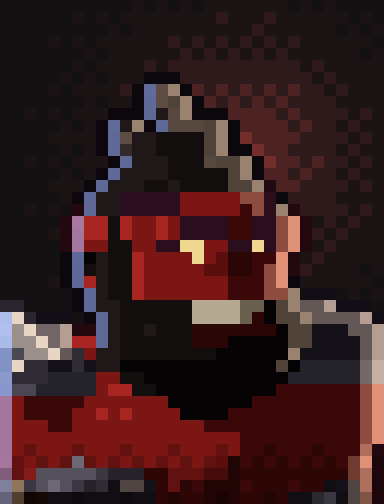
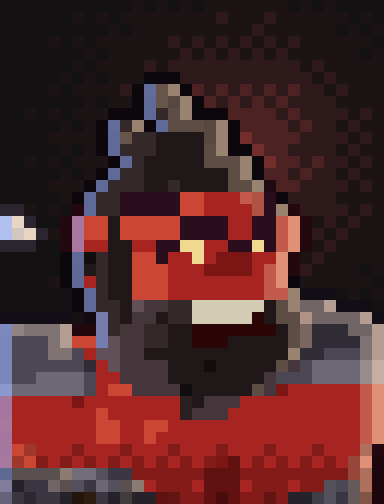
Axe review fixes: great axe head ~2x (double bit, longer haft, grid 96x80x80), stunned axe off the ground; portrait exposure lifted, beard outline lit so eyes + mouth read.

diff --git a/shared/vox/heroes/axe.js b/shared/vox/heroes/axe.js
@@ -3,14 +3,14 @@
 // pauldrons on both shoulders, dark bracers, a brown belt with a strap across the chest; dark brown trousers, grey greaves, dark boots. Both
 // fists hold the double-bladed great axe across the front, the head out to his right (-x), the long haft running down past his left hip.
 // Signature reads: red bulk with a black topknot + beard; the double-bit axe held across the body; dark iron shoulders on red arms.
-// Grid 64 x 64 x 56, ~45 voxels tall to the topknot (Pudge 45), faces -y.
+// Grid 96 x 80 x 80 (room for the great axe), ~45 voxels tall to the topknot (Pudge 45), faces -y.
 import { Vox } from '../vox.js';
 import { useMat } from '../mats.js';
 import { solve, sub3, norm3, apM } from '../rig.js';
 import { limb, band, hand, feet, pauldron, ell, cap, vol, greatAxe } from '../parts.js';
 
-export const META = { rig: 'biped', grid: [64, 64, 56], cx: 32, cy: 32 };
-const cx = 32, cy = 32;
+export const META = { rig: 'biped', grid: [96, 80, 80], cx: 48, cy: 40 };
+const cx = 48, cy = 40;
 /** Biped proportions: short legs, a broad chest, shoulders wide and high, the head set forward on a thick neck. */
 export const PROP = {
   cx, cy, hipZ: 11, hipX: 3.6, footX: 6.2, ankleY: -0.3, ankleZ: 3.4, thigh: 4.6, shin: 4.2,
@@ -23,13 +23,14 @@ const HOLD = { R: [2.6, -9.4, -4.6], L: [-4.4, -9, -10.4] };   // reach targets 
 export const rigOf = p => solve('biped', PROP, p).J;
 
 export function build(p = {}) {
-  const v = new Vox(64, 64, 56), rig = solve('biped', PROP, p), J = rig.J, T = rig.T, Rt = T.torso && T.torso.R;
+  const v = new Vox(96, 80, 80), rig = solve('biped', PROP, p), J = rig.J, T = rig.T, Rt = T.torso && T.torso.R;
   const SKIN = ['#3a0808', '#7c1614', '#a82420', '#cc4636'];
   const M = {
     skin: useMat(v, 'skin', { ramp: SKIN }),
     skinD: useMat(v, 'skinD', { ramp: ['#2a0606', '#5a0e0e', '#7c1614', '#9c2a22'] }),
     face: useMat(v, 'face', { ramp: SKIN, noShadow: true }),
     hair: useMat(v, 'hair', { ramp: ['#050304', '#120e0e', '#201818', '#342828'] }),
+    hairL: useMat(v, 'hairL', { ramp: ['#120c0c', '#2a2020', '#44363a', '#625058'], noShadow: true }),
     iron: useMat(v, 'iron', { ramp: ['#141218', '#302c36', '#4c4754', '#6c6676'] }),
     ironL: useMat(v, 'ironL', { ramp: ['#24222a', '#4a4652', '#6c6876', '#928c9a'] }),
     leather: useMat(v, 'leather', { ramp: ['#140c08', '#2e1e14', '#46301e', '#644630'] }),
@@ -99,11 +100,12 @@ export function build(p = {}) {
     cap(v, Th, [hx + dx * 0.7, hy + 1.2, hz + 4.4], [hx + dx * 1.3, hy + 1.2 + back, hz + 4.6 + up], 1.7, M.hair, 0.5);
   cap(v, Th, [hx, hy + 4.4, hz + 2], [hx, hy + 6.4, hz - 3], 2.8, M.hair, 1.6);                                 // mane down the nape
   for (const s of [-1, 1]) cap(v, Th, [hx + s * 4.6, hy + 0.4, hz + 0.4], [hx + s * 5.6, hy + 0.8, hz + 1.6], 0.9, M.face);   // ears
-  ell(v, Th, [hx, hy - 1.4, hz - 3.4], [5, 4, 3.8], M.hair, (px, py, pz) => pz < hz - 1.6 + Math.abs(px - hx) * 0.1);   // beard
+  ell(v, Th, [hx, hy - 1.4, hz - 3.4], [5, 4, 3.8], (px, py, pz) => (((px - hx) / 5) ** 2 + ((pz - hz + 3.4) / 3.8) ** 2 > 0.62 ? M.hairL : M.hair),
+    (px, py, pz) => pz < hz - 1.6 + Math.abs(px - hx) * 0.1);                                                    // beard, its outline lit so the mouth reads
   for (const s of [-1, 1]) cap(v, Th, [hx + s * 4.4, hy - 0.4, hz + 0.4], [hx + s * 4.2, hy - 1, hz - 2.8], 1.1, M.hair);  // sideburns
 
   // ---- face, painted on the front-most head voxels only: heavy brow, small pale eyes, nose shadow, a bared grimace in the beard
-  const HEAD = new Set([M.face, M.hair]);
+  const HEAD = new Set([M.face, M.hair, M.hairL]);
   const paint = (x, z, m) => { const y = v.front(x, z); if (y >= 0 && HEAD.has(v.get(x, y, z))) v.set(x, y, z, m); };
   const ox = Math.round(J.head[0] - hx), ez = Math.round(HZ + 1 + J.head[2] - hz), X = d => cx + ox + d;
   for (const [d, dz] of [[-4, 2], [-3, 2], [-2, 1], [-1, 1], [0, 0], [1, 1], [2, 1], [3, 2]]) paint(X(d), ez + dz, M.lash);
@@ -119,7 +121,7 @@ export function build(p = {}) {
   const butt = [hL[0] - d[0] * 6 + fwd[0] * lift, hL[1] - d[1] * 6 + fwd[1] * lift, hL[2] - d[2] * 6 + fwd[2] * lift];
   const span = Math.hypot(...sub3(hR, hL)) + 6;
   greatAxe(v, butt, d, Math.abs(d[1]) > 0.8 ? apM(Rt, [1, 0, 0]) : fwd,
-    { len: span + 16, head: span + 13, r: 0.9, bits: 2, reach: 7.4, l0: 2.4, l1: 6.4, th: 0.8, edge: 1.2, spike: 1.6, bands: [0.06, (span - 6) / (span + 16), 0.6] },
+    { len: span + 24, head: span + 19, r: 1, bits: 2, reach: 11.5, l0: 3.4, l1: 10, th: 0.9, edge: 1.6, spike: 2.2, bands: [0.06, (span - 6) / (span + 24), 0.55] },
     { haft: M.wood, band: M.iron, blade: M.blade, edge: M.edge });
   v.ellipsoid(butt[0], butt[1], butt[2], 1.1, 1.1, 1.1, M.iron);                                              // pommel
   return v;
@@ -132,7 +134,7 @@ const step = st => ({
   reachR: sh(HOLD.R, [0, st * 0.8, 0.8]), reachL: sh(HOLD.L, [0, st * 0.8, 0.8]),
 });
 const ROAR = { bob: 0.2, spine: [-10, 0, 0], head: [-16, 0, 0], reachR: [0.4, -1.2, 8.6], reachL: [-2, -4.6, -6.4], footR: [0, 0.6, 0], footL: [0, -0.6, 0] };
-const SLUMP = { bob: -0.8, spine: [12, 4, 5], head: [14, 8, 6], reachR: [3, -5, -11], reachL: [-3, -5, -11.4], eyes: 'shut' };
+const SLUMP = { bob: -0.8, spine: [12, 4, 5], head: [14, 8, 6], reachR: [3, -7, -5], reachL: [-3, -7, -9], eyes: 'shut' };
 /** Anims: idle = slow heavy breathing, axe across the belly; walk = a heavy stride, axe carried; attack = the axe wound up over the right
  * shoulder, then a diagonal chop across the front; cast = Berserker's Call: leans back, axe thrust up, roaring; stunned = slumped, eyes shut. */
 export const ANIMS = {
@@ -151,4 +153,5 @@ export const ANIMS = {
 };
 
 /** HUD portrait framing (tools/vox/portrait.mjs): idle, the bearded red head in the upper third, the pauldrons either side. */
-export const PORTRAIT = { pose: ANIMS.idle[0], center: [cx, HY, 34], scale: 1.6, fov: 24, sig: '#a82420', face: [4, 11, 24, 24] };
+export const PORTRAIT = { pose: ANIMS.idle[0], center: [cx, HY, 34], scale: 1.6, fov: 24, sig: '#a82420', face: [4, 11, 24, 24],
+  ambient: 0.34, fill: [0.85, -0.5, 0.45, 0.45], levels: [0.3, 0.55, 0.85] };   // lifted exposure: the beard + dark skin must not swallow the face

diff --git a/client/src/art/portraits/axe.js b/client/src/art/portraits/axe.js
@@ -1,50 +1,50 @@
 // GENERATED by tools/vox/portrait.mjs (axe) -- do not edit by hand. Voxel HUD portrait 32x42 (= the 32x42 the HUD shows, 1 art px = 1 u), opaque.
 // Loaded by client/src/art/portraits.js, which swaps it into the sheet's 'portrait' frame unless ?vox=0.
 export default {
-  pal: { '0':'#24222a', '1':'#a82420', '2':'#611110', '3':'#50433a', '4':'#141218', '5':'#9a8270', '6':'#8d4c3f', '7':'#2a0606', '8':'#5e6997', '9':'#24080f', '!':'#1c1414', '#':'#131111', '$':'#7c1614', '%':'#2e1a1a', '&':'#3a0808', '(':'#120e0e', ')':'#050304', '*':'#0c060d', '+':'#201818', ',':'#4c2322', '-':'#2d0606', '/':'#2a0e1e', ':':'#df9076', ';':'#100e13', '<':'#645856', '=':'#130d16', '>':'#b4aa94', '?':'#302c36', '@':'#b49e93', 'A':'#210505', 'B':'#54515c', 'C':'#56483f', 'D':'#e9d5c3', 'E':'#9a8f8a', 'F':'#a4769e', 'G':'#f0d890', 'H':'#5a0e0e', 'I':'#1c060c', 'J':'#25222a', 'K':'#4e4543', 'L':'#5d4d44', 'M':'#5f6a98', 'N':'#732e2c', 'O':'#a6779e', 'P':'#2b252f', 'Q':'#6a6050', 'R':'#726565', 'S':'#ae705c', 'T':'#5d6897', 'U':'#8392c4', 'V':'#756967', 'W':'#c5afa3', 'X':'#4a4652', 'Y':'#6c6876', 'Z':'#6e3b31', '[':'#3a3740', ']':'#460b0b', '^':'#3b3742', '_':'#0c0a0e', 'a':'#220505', 'b':'#616c9a', 'c':'#616b9a', 'd':'#342828', 'e':'#220a13', 'f':'#a8789f', 'g':'#aebeec', 'h':'#b0bfee', 'i':'#aabae9', 'j':'#4a4850', 'k':'#8b99cb', 'l':'#8896cc', 'm':'#815d7b', 'n':'#831c19', 'o':'#807f9d', 'p':'#91755a', 'q':'#64637a', 'r':'#533f30', 's':'#0f0703', 't':'#140905', 'u':'#180303', 'v':'#2b2930', 'w':'#825445' },
+  pal: { '0':'#4c4754', '1':'#5d4d44', '2':'#6c6876', '3':'#9a8270', '4':'#5f6a98', '5':'#c45a4b', '6':'#24080f', '7':'#130d16', '8':'#df9076', '9':'#d4ccb4', '!':'#1c1414', '#':'#a82420', '$':'#131111', '%':'#2e1a1a', '&':'#201818', '(':'#831c19', ')':'#cc4636', '*':'#0c060d', '+':'#342828', ',':'#4c2322', '-':'#44363a', '/':'#2a0e1e', ':':'#2a0606', ';':'#7c1614', '<':'#302c36', '=':'#611110', '>':'#3b3742', '?':'#726565', '@':'#807374', 'A':'#2b252f', 'B':'#b49e93', 'C':'#25222a', 'D':'#4a4652', 'E':'#594f4f', 'F':'#a8789f', 'G':'#625058', 'H':'#f0d890', 'I':'#a6779e', 'J':'#1c060c', 'K':'#67554c', 'L':'#56483f', 'M':'#732e2c', 'N':'#120e0e', 'O':'#757daf', 'P':'#ae705c', 'Q':'#54515c', 'R':'#616c9a', 'S':'#ae5345', 'T':'#b1c0ef', 'U':'#e9d5c3', 'V':'#5e6997', 'W':'#7a6560', 'X':'#7886bc', 'Y':'#7987bd', 'Z':'#998c8d', '[':'#c5afa3', ']':'#2a2020', '^':'#9f372a', '_':'#99463a', 'a':'#8c7b73', 'b':'#726d78', 'c':'#54505c', 'd':'#645a5a', 'e':'#621513', 'f':'#220a13', 'g':'#d1c6c0', 'h':'#120a10', 'i':'#af9486', 'j':'#7b89be', 'k':'#908285', 'l':'#8b99cf', 'm':'#5f6a93', 'n':'#7f7d9b', 'o':'#6c6676', 'p':'#636279', 'q':'#2c2931', 'r':'#24150a', 's':'#301c0e', 't':'#423b3b', 'u':'#480d0c', 'v':'#3f3d45', 'w':'#825445' },
   face: [4, 11, 24, 24],
   rows: [
-    '###########!#!#!#!!!!!!!#!#!####',
-    '######!#!#!!!!!!!!%!!!%!!!!!!#!#',
-    '#########!#!!!!!!!!!!%!!!!!!#!#!',
-    '####!#!#!!!!!!%!%!%!%!%!%!!!!!!#',
-    '#######!#!!!!!!%!%!%!%!%!!!!!!#!',
-    '######!#!!!!%!%%%%%%%%%%%!%!!!!!',
-    '#####!#!#!!!***%%%%%%%%%%%!%!!!!',
-    '####!#!!!!%*bL5*,%,%,%,%,%%!%!!!',
-    '#######!#!!*ML35*,%,%,%,%%%%!!!!',
-    '##!#!#!!!***8+C5***,,,,%,%%%%!%!',
-    '#####!#!*c+5*8CCC35*,,,,%,%%!%!!',
-    '####!!!!*8L++((((35*N,,,,%%%%!%!',
-    '#####!#!*8d++((((35**N,,%%%%!%!!',
-    '##!#!#!!!*8+++(((C335*N,,%,%%!%!',
-    '#####!#!*8++++(((((35*,,%,%%!%!!',
-    '####!!!*8+++((+((((335e,,%%%%!%!',
-    '#####!*M++/////$$$$$66/*%%%%!!!!',
-    '##!#!#9M++/////$$$$$&6/59%%%%!%!',
-    '#####9f11(1$$1$////&&//6:9!%!%!!',
-    '####!9O11(1$$1$////&&//6:9%!%!!!',
-    '#####9O$$(($$//GG$$//G/6:9!%!!!!',
-    '#####*8)+((1$$$$G$H77&&:9!%!!!!!',
-    '#####*T(+((1$$$$$HH77&6:9%!!!!#!',
-    '####!*T1+((1$$$$$$$&&&6:*!!!!!!#',
-    '######*8+((1$$$$$$$&&&665===#!#!',
-    'PP####*8++((((((>>>>QQ)35<<@===#',
-    'gDP===#*8+((((((>>>>Q7)335<<<<@=',
-    'hEDRR@998+((+(((7777777)33444<<@',
-    'iEEDR@118+((((((777)))))334444<@',
-    'UjEED<?$++(((((((())))))544444<@',
-    'UD??44?4++)))))))))))))3)00000VW',
-    'k???0000$$(())))))))))))000000VW',
-    'lXX00000$11(())))))))))&&&&&&&6:',
-    'F$&&&&&$$$$$$$)))))))&&&&&&&&&6:',
-    'F$&&&&$$1$1$$$$))))&&&&&&&&&&&6:',
-    'F$$$&&$$$$$$$$$$$&&&&&&&&&&&&&6:',
-    'F$$$$$$$$$$$$$$$$$$$&&&&&&&&&&6:',
-    'F$2$$$2$$$2$$$2$$$2$&&-&&&-&&&S9',
-    'O2$2$2Y2$2$2$2$2$2HA&-&-&-&-&Z:I',
-    'm2nBBBBB[JJJ--222]]A---------ZSI',
-    'op^BYB^J?;KK4-2-&AAA&---&--;4KSI',
-    'qrst;;_;;;_;;-a--AuA--a-;;v[;KwI'
+    '$$$$$$$$$$$!$!$!$!!!!!!!$!$!$$$$',
+    '$$$$$$!$!$!!!!!!!!%!!!%!!!!!!$!$',
+    '$$$$$$$$$!$!!!!!!!!!!%!!!!!!$!$!',
+    '$$$$!$!$!!!!!!%!%!%!%!%!%!!!!!!$',
+    '$$$$$$$!$!!!!!!%!%!%!%!%!!!!!!$!',
+    '$$$$$$!$!!!!%!%%%%%%%%%%%!%!!!!!',
+    '$$$$$!$!$!!!***%%%%%%%%%%%!%!!!!',
+    '$$$$!$!!!!%*RK3*,%,%,%,%,%%!%!!!',
+    '$$$$$$$!$!!*4KL3*,%,%,%,%%%%!!!!',
+    '$$!$!$!!!***4+13***,,,,%,%%%%!%!',
+    '$$$$$!$!*R+3*4111L3*,,,,%,%%!%!!',
+    '$$$$!!!!*4K++&&&&L3*M,,,,%%%%!%!',
+    '$$$$$!$!*4+++&&&&13**M,,%%%%!%!!',
+    '$$!$!$!!!*4+&&&&&1113*M,,%,%%!%!',
+    '$$$$$!$!*4++&&&&&&&13*,,%,%%!%!!',
+    '$$$$!!!*4+++&&+&&&&113f,,%%%%!%!',
+    '$$$$$!*4++/////))###5S/*%%%%!!!!',
+    'AA!$!$64++/////))####S/36%%%%!%!',
+    'TUA$$6F))&)))))////##//586!%!%!!',
+    'TgUA!6F))&)))))////##//586%!%!!!',
+    'AAA$$6F##&&##//HH##//H/586!%!!!!',
+    '$$$$$*4N+&&))/##H#;;;##86!%!!!!!',
+    '$$$$$*V&+&&)))###;;;;#586%!!!!$!',
+    '$$$$!*V#+&&)))########58*!!!!!!$',
+    '$$$$$$*4+&&)))########553777$!$!',
+    '$$$$$$*4++&G--++999999&13??B777$',
+    '777777$hO+&--&++99999:&11i????B7',
+    'jk@@@B66O+--++&&:::::::&1W<<<??B',
+    'X000@B))OG--++&&:::&&&&&1W<<<<@B',
+    'X000@@0#GG--&&&&&&&&&&&&3<<000@B',
+    'Y000000<#G----&&&N&&&&&1-D2222Z[',
+    'Y002222D##----&&&&&&&&-DDD2222Z[',
+    'l222222D#))----N&&&&&1-;######58',
+    'I#####;########]&---##########58',
+    'I#######)######]---###########58',
+    'F#######))##))################58',
+    'I#######))##)#################58',
+    'I)^###(###(###(###(###(###(###P6',
+    'F^)(#(#(#(#(#(#(#(;=#(#(#(#(#_8J',
+    'mEEEEabbQ>>((((((===(((((((((_PJ',
+    'nC>>?Ec>ocEa#(((#===#(((#((Q0dPJ',
+    'p>q>>Crs>CtCC=e((=u=((e(CCvQ>dwJ'
   ]
 };
